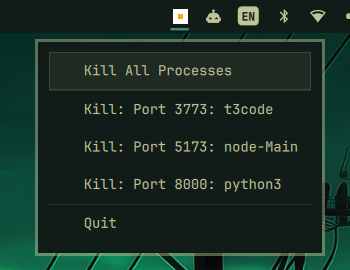
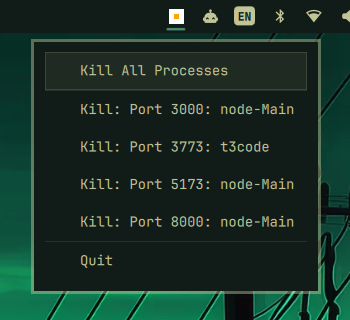
Notify the bar on TUI startup and exit; update screenshots

diff --git a/tests/portkill.test.js b/tests/portkill.test.js
@@ -11,12 +11,17 @@ const script = path.resolve(__dirname, "..", "portkill.sh")
 
 // A fake Port Kill that logs its arguments and prints a DEBUG line before one
 // JSON record, like the real binary.
-async function fakeEnv(t, { withPortKill = true, withLsof = true, monitor = true } = {}) {
+async function fakeEnv(t, { withPortKill = true, withLsof = true, monitor = true, exitCode = 0, withShell = true } = {}) {
   const dir = fs.mkdtempSync(path.join(os.tmpdir(), "portkill-test-"))
   t.after(() => fs.rmSync(dir, { recursive: true, force: true }))
   const bin = path.join(dir, "bin")
   fs.mkdirSync(bin)
   const log = path.join(dir, "args.log")
+  const ipcLog = path.join(dir, "ipc.log")
+  if (withShell) fs.writeFileSync(path.join(bin, "omarchy-shell"), [
+    "#!/bin/bash",
+    `printf '%s\\n' "$*" >> '${ipcLog}'`
+  ].join("\n"), { mode: 0o755 })
   const proc = path.join(dir, "proc")
   fs.mkdirSync(proc)
 
@@ -26,7 +31,7 @@ async function fakeEnv(t, { withPortKill = true, withLsof = true, monitor = true
       `printf '%s\\n' "$*" >> '${log}'`,
       "echo 'DEBUG: Creating ProcessMonitor'",
       `[[ $1 == --json ]] && echo '{"pid":42,"port":3000,"name":"node"}'`,
-      "exit 0"
+      `exit ${exitCode}`
     ].join("\n"), { mode: 0o755 })
   }
   if (withLsof) fs.writeFileSync(path.join(bin, "lsof"), "#!/bin/bash\n", { mode: 0o755 })
@@ -49,8 +54,25 @@ async function fakeEnv(t, { withPortKill = true, withLsof = true, monitor = true
   const env = { PATH: bin, HOME: dir, PORT_KILL_PROC_ROOT: proc }
   const run = (...args) => spawnSync("/bin/bash", [script, ...args], { encoding: "utf8", env })
   const calls = () => fs.existsSync(log) ? fs.readFileSync(log, "utf8").trim().split("\n") : []
-  return { run, calls, monitor: monitorProcess }
+  const ipcCalls = () => fs.existsSync(ipcLog) ? fs.readFileSync(ipcLog, "utf8").trim().split("\n") : []
+  return { run, calls, ipcCalls, monitor: monitorProcess }
 }
+
+test("launch notifies the bar at startup and exit, preserving the monitor exit code", async t => {
+  const { run, ipcCalls } = await fakeEnv(t, { monitor: false, exitCode: 7 })
+  assert.equal(run("launch").status, 7)
+  assert.deepEqual(ipcCalls(), [
+    "-q jesusarchive.port-kill.service started",
+    "-q jesusarchive.port-kill.service refresh"
+  ])
+})
+
+test("launch still runs without the Omarchy shell command", async t => {
+  const { run } = await fakeEnv(t, { monitor: false, withShell: false })
+  const result = run("launch")
+  assert.equal(result.status, 0, result.stderr)
+  assert.match(result.stdout, /Creating ProcessMonitor/)
+})
 
 test("list returns Port Kill's JSON records without log lines", async t => {
   const { run } = await fakeEnv(t)
@@ -142,7 +164,7 @@ test("leading zero ports are passed as decimal", async t => {
 
 test("usage errors never call the backend", async t => {
   const { run, calls } = await fakeEnv(t)
-  for (const args of [[], ["unknown"], ["list", "extra"], ["kill"], ["quit", "extra"], ["kill-all", "extra"]]) {
+  for (const args of [[], ["unknown"], ["list", "extra"], ["kill"], ["quit", "extra"], ["kill-all", "extra"], ["launch", "extra"]]) {
     assert.equal(run(...args).status, 2)
   }
   assert.deepEqual(calls(), [])

diff --git a/Service.qml b/Service.qml
@@ -24,6 +24,8 @@ Item {
   property string _signature: ""
   property string scanError: ""
   property string actionError: ""
+  property int startupChecks: 0
+  property bool refreshPending: false
 
   function setting(name, fallback) {
     var value = settings ? settings[name] : undefined
@@ -41,7 +43,11 @@ Item {
   }
 
   function refresh() {
-    if (scanProcess.running) return
+    if (scanProcess.running) {
+      refreshPending = true
+      return
+    }
+    refreshPending = false
     _scanOutput = ""
     _scanError = ""
     scanProcess.command = ["bash", portKillScript, "list"]
@@ -59,6 +65,7 @@ Item {
     }
     scanError = ""
     status = "ready"
+    startupChecks = 0
   }
 
   function applyFailure(exitCode, stderr) {
@@ -101,6 +108,27 @@ Item {
 
   onSettingsChanged: refresh()
 
+  IpcHandler {
+    target: "jesusarchive.port-kill.service"
+    function started(): void {
+      // The launcher calls before starting the foreground monitor. Retry only
+      // during startup so a scan cannot miss the new process and wait 2s.
+      root.startupChecks = 20
+      root.refresh()
+    }
+    function refresh(): void { root.refresh() }
+  }
+
+  Timer {
+    interval: 100
+    repeat: true
+    running: root.startupChecks > 0
+    onTriggered: {
+      root.startupChecks--
+      root.refresh()
+    }
+  }
+
   Timer {
     interval: root.refreshIntervalSec * 1000
     repeat: true
@@ -128,6 +156,7 @@ Item {
       var stderr = String(scanStderr.text || root._scanError || "")
       if (exitCode === 0) root.applyScan(stdout)
       else root.applyFailure(exitCode, stderr)
+      if (root.refreshPending) Qt.callLater(root.refresh)
     }
   }
 

diff --git a/README.md b/README.md
@@ -32,15 +32,19 @@ omarchy plugin add https://github.com/jesusarchive/omarchy-port-kill.git --enabl
 To also add Port Kill to the app launcher:
 
 ```bash
-omarchy tui install "Port Kill" port-kill-console float \
+omarchy tui install "Port Kill" "bash $HOME/.config/omarchy/plugins/jesusarchive.port-kill/portkill.sh launch" float \
   https://raw.githubusercontent.com/treadiehq/port-kill/main/assets/port-kill.png
 ```
 
 ## Use
 
-Run `port-kill-console` in a terminal, or select Port Kill in the app launcher.
-The bar icon appears when the plugin detects the monitor. Left-click it to open
-the menu; right-click to refresh.
+Select Port Kill in the app launcher. Its launch script notifies the bar at
+startup and exit, so the icon updates without waiting for the next regular check.
+If you already have a launcher, run the command above again to update it.
+
+You can also run `port-kill-console` directly in a terminal; the bar detects it
+within the refresh interval of two seconds by default. Left-click the icon to
+open the menu; right-click to refresh.
 
 ![Port Kill menu](assets/menu.png)
 
@@ -85,7 +89,7 @@ Change settings in the bar editor or from a terminal:
 
 | Setting | Key | Default | Description |
 | --- | --- | --- | --- |
-| Refresh interval | `refreshIntervalSec` | `2` seconds | How often the bar checks the monitor and refreshes its process list. Accepts 1 to 300 seconds. |
+| Refresh interval | `refreshIntervalSec` | `2` seconds | How often the bar refreshes the process list while Port Kill is running. Accepts 1 to 300 seconds. |
 
 ```bash
 omarchy bar set jesusarchive.port-kill refreshIntervalSec 2 --json
